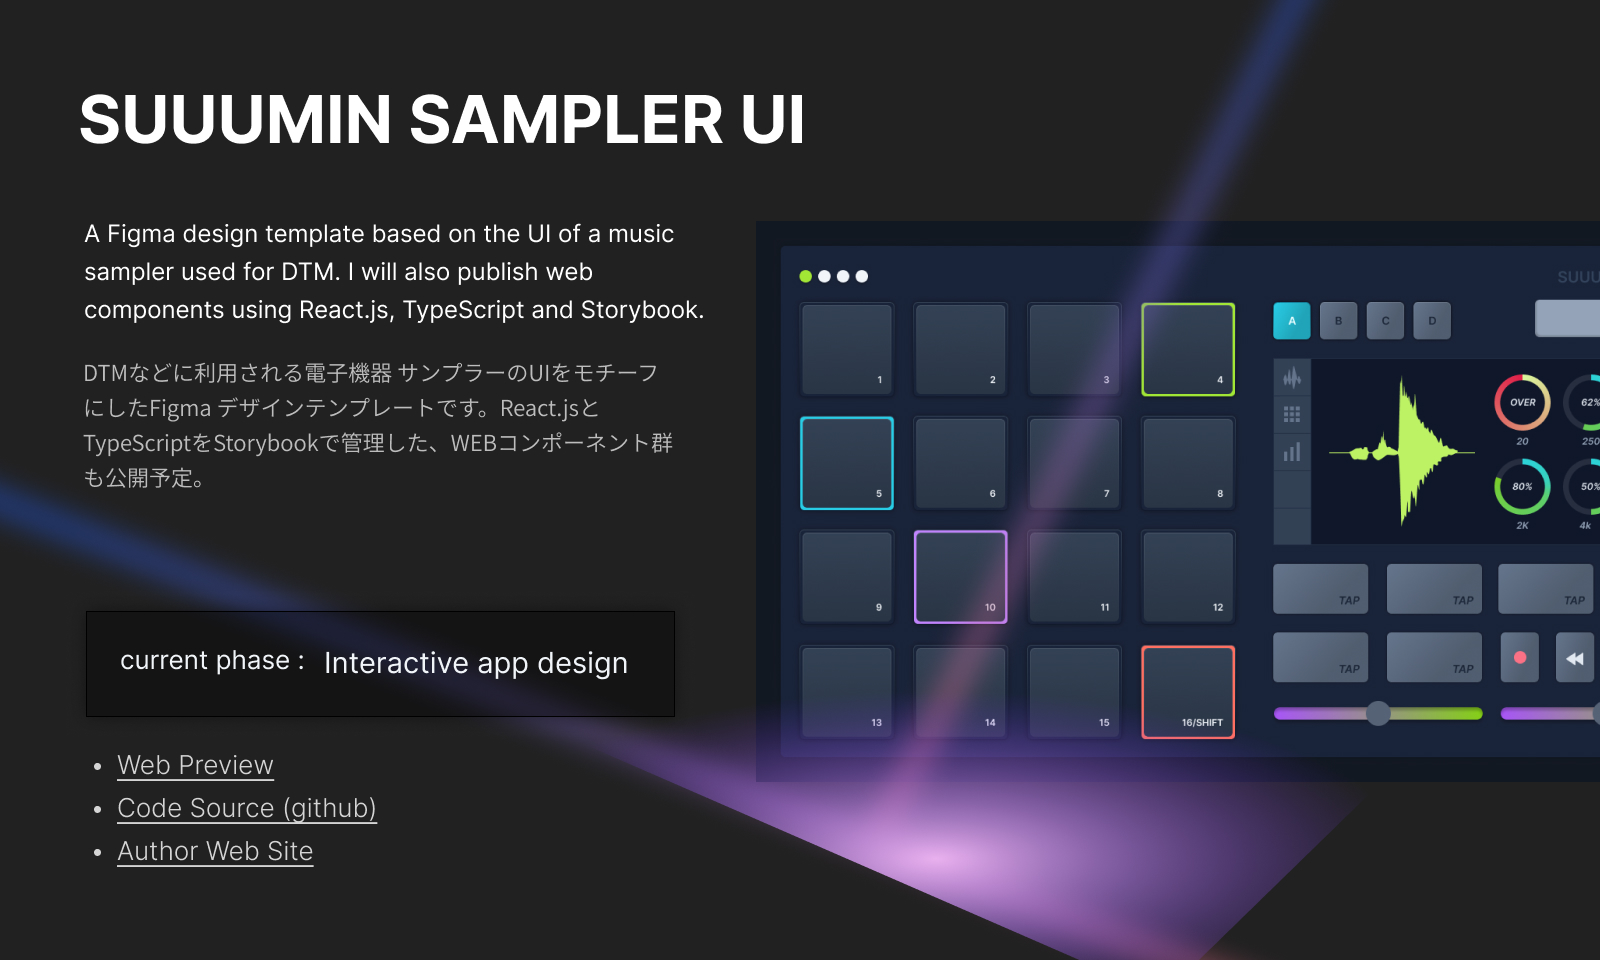
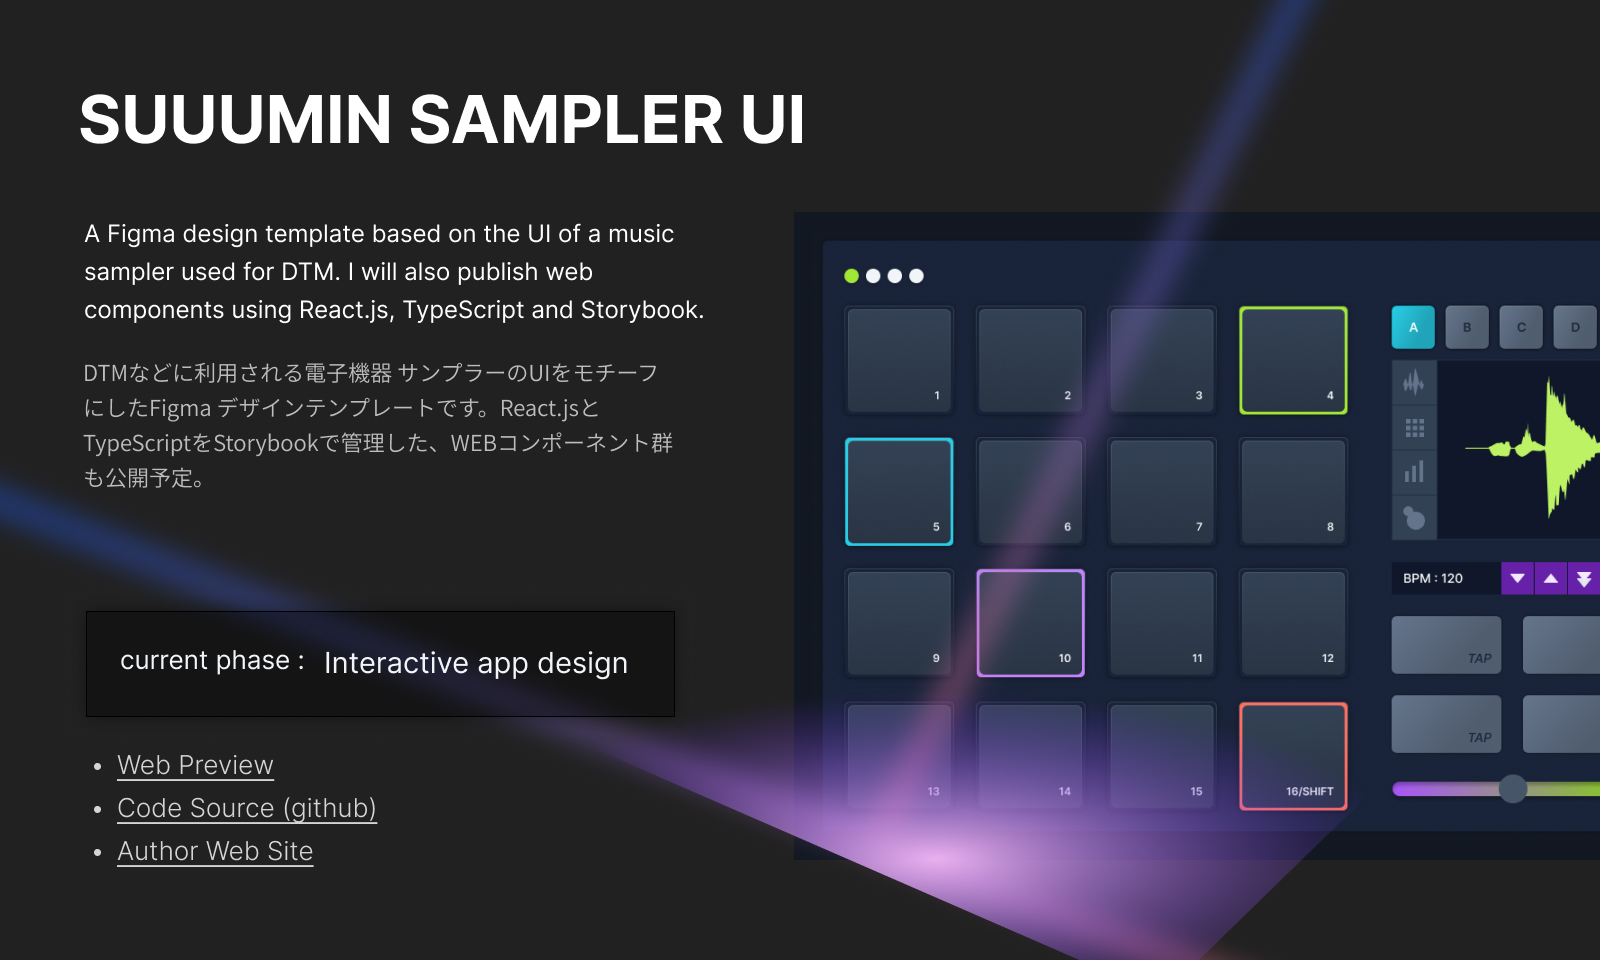
Add BPMPanel and MeasurePanel tmp parts / Design Preview Update

Changed region(s): [[0.4688, 0.25, 1.0, 0.875], [0.5312, 0.7812, 0.5625, 0.8125]]

diff --git a/src/components/BPMPanel.tsx b/src/components/BPMPanel.tsx
@@ -1,0 +1,46 @@
+import React, { useState, useRef, useEffect } from "react";
+
+const BPMPanel = () => {
+  const [num, setNum] = useState<number>(120);
+  const panelRef = useRef<HTMLDivElement | null>(null);
+
+  useEffect(() => {
+    const panel = panelRef.current;
+
+    if (panel) {
+      const handleScroll = (event: WheelEvent) => {
+        const newNum = num + (event.deltaY > 0 ? 1 : -1);
+        if (newNum < 40) {
+          setNum(40);
+        } else if (newNum > 255) {
+          setNum(255);
+        } else {
+          setNum(newNum);
+        }
+      };
+
+      panel.addEventListener("wheel", handleScroll);
+
+      return () => {
+        panel.removeEventListener("wheel", handleScroll);
+      };
+    }
+  }, [num]);
+
+  return (
+    <div className="bpm-panel">
+      <div ref={panelRef} className="bpm-panel__display">
+        <span className="bpm-panel__label">BPM : </span>
+        <span className="bpm-panel__num">{num}</span>
+      </div>
+      <div className="bpm-panel__btns">
+        <button className="bpm-panel__btn --type_up">U</button>
+        <button className="bpm-panel__btn --type_down">D</button>
+        <button className="bpm-panel__btn --type_up">U</button>
+        <button className="bpm-panel__btn --type_down">D</button>
+      </div>
+    </div>
+  );
+};
+
+export default BPMPanel;

diff --git a/src/scss/bpm-panel.scss b/src/scss/bpm-panel.scss
@@ -1,0 +1,55 @@
+@use 'sass:map';
+@use './variables' as *;
+
+.bpm-panel {
+  background-color: $color-slate-950;
+  font-weight: 700;
+  cursor: row-resize;
+  height: 36px;
+  display: flex;
+  align-items: center;
+  justify-content: space-between;
+
+  &__display {
+    font-size: 14px;
+    color: white;
+    padding: 0 $app-gutter;
+    flex: 1;
+  }
+
+  &__label {
+    display: none;
+
+    @media (min-width: map.get($app-breakpoints, "md")) {
+      display: inline-block;
+    }
+
+    @media (min-width: map.get($app-breakpoints, "lg")) {
+      display: none;
+    }
+
+    @media (min-width: map.get($app-breakpoints, "xl")) {
+      display: inline-block;
+    }
+  }
+
+  &__btns {
+    display: flex;
+    gap: 1px;
+  }
+
+  &__btn {
+    background-color: $color-purple-800;
+    color: $color-purple-200;
+    width: 36px;
+    height: 36px;
+    cursor: pointer;
+    border: none;
+    transition: 0.2s;
+
+    &:hover {
+      background-color: $color-purple-900;
+      color: $color-purple-50;
+    }
+  }
+}

diff --git a/src/components-layout/EditContents.tsx b/src/components-layout/EditContents.tsx
@@ -4,6 +4,8 @@ import Utils from "../components/Utils";
 import DegitalCanvas from "../components/DegitalCanvas";
 import MenusBtns from "../components/MenuBtns";
 import Faders from "../components/Faders";
+import BPMPanel from "../components/BPMPanel";
+import MeasurePanel from "../components/MeasurePanel";
 
 const EditContents = () => {
   return (
@@ -11,8 +13,16 @@ const EditContents = () => {
       <div className="app-row app-u-mx-0">
         <Utils />
       </div>
-      <div className="app-row app-u-py-gutter app-u-mx-0">
+      <div className="app-row app-u-pb-gutter app-u-mx-0">
         <DegitalCanvas />
+      </div>
+      <div className="app-row app-u-py-gutter app-u-mx-0">
+        <div className="app-col-6">
+          <BPMPanel />
+        </div>
+        <div className="app-col-6">
+          <MeasurePanel />
+        </div>
       </div>
       <div className="app-row app-u-mx-0">
         <MenusBtns />

diff --git a/src/scss/time-panel.scss b/src/scss/time-panel.scss
@@ -1,0 +1,27 @@
+@use './variables' as *;
+
+.time-panel {
+  position: relative;
+  display: flex;
+  justify-content: center;
+  align-items: center;
+  background-color: $color-slate-950;
+  height: 36px;
+  width: 100%;
+
+  &__view {
+    font-size: 12px;
+    line-height: 1;
+  }
+
+  &__beat-red {
+    position: absolute;
+    top: 50%;
+    right: $app-gutter;
+    transform: translateY(-50%);
+    width: 8px;
+    height: 8px;
+    border-radius: 4px;
+    background-color: $color-pink-700;
+  }
+}

diff --git a/src/components/MeasurePanel.tsx b/src/components/MeasurePanel.tsx
@@ -1,0 +1,12 @@
+import React from "react";
+
+const MeasurePanel = () => {
+  return (
+    <div className="time-panel">
+      <span className="time-panel__view">1.1.1</span>
+      <span className="time-panel__beat-red"></span>
+    </div>
+  );
+};
+
+export default MeasurePanel;

diff --git a/src/scss/degital-canvas.scss b/src/scss/degital-canvas.scss
@@ -6,9 +6,9 @@
   border: 1px solid $color-slate-800;
   height: 200px;
 
-  @media (min-width: map.get($app-breakpoints, "lg")) {
-    height: 240px;
-  }
+  // @media (min-width: map.get($app-breakpoints, "lg")) {
+  //   height: 240px;
+  // }
 
   canvas {
     width: 100%;

diff --git a/src/scss/index.scss b/src/scss/index.scss
@@ -10,12 +10,14 @@
 //
 
 @use 'bank-btn';
+@use 'bpm-panel';
 @use 'degital-canvas';
 @use 'fader';
 @use 'measure-led';
 @use 'menu-btn';
 @use 'pad';
 @use 'swipe-pad';
+@use 'time-panel';
 
 @use 'other-parts';
 

diff --git a/README.md b/README.md
@@ -44,18 +44,6 @@ https://suuumin-sampler-ui.masa-sumimoto.com/
 
 ![wireframe-preview](https://github.com/masa-sumimoto/suuumin-sampler-ui/blob/main/assets/images/color-system.png)
 
-I think about color in three steps.
-
-The first is like a color palette. All colors used in the design are limited to these.
-
-(Irregulars also exist. For example, if you want to add a Twitter icon, it's a special color that is excluded from this world.)
-
-The second is "role colors".  
-For example, in flashing lights, it is very useful to indicate its status.
-
-The third are for design parts.  
-These are only partially shown as more specific color schemes can be referenced from the actual parts.
-
 
 ## Roadmap to Version 0.1.0
 
